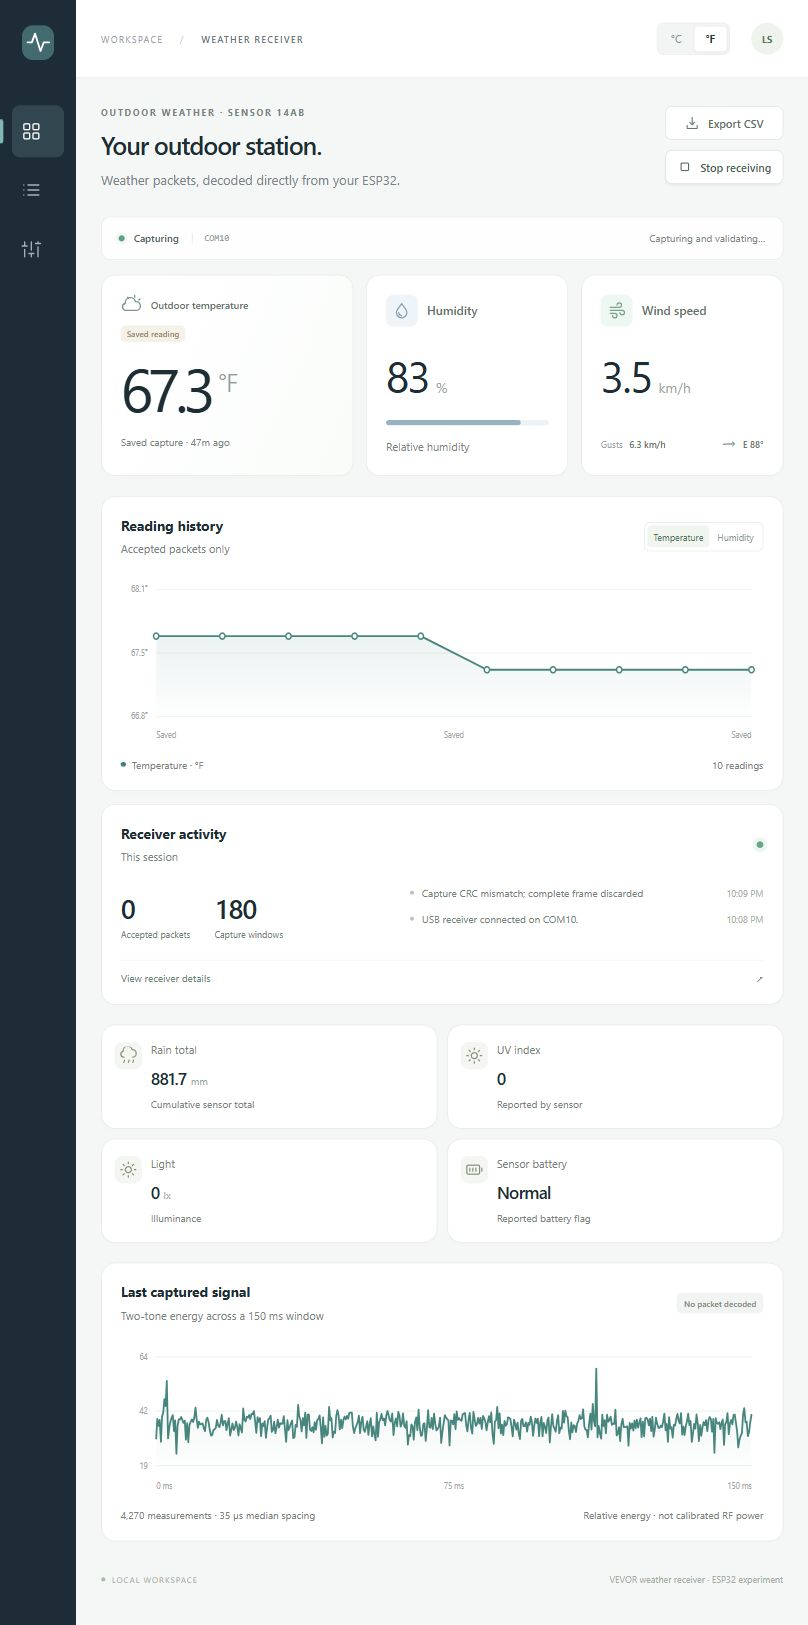
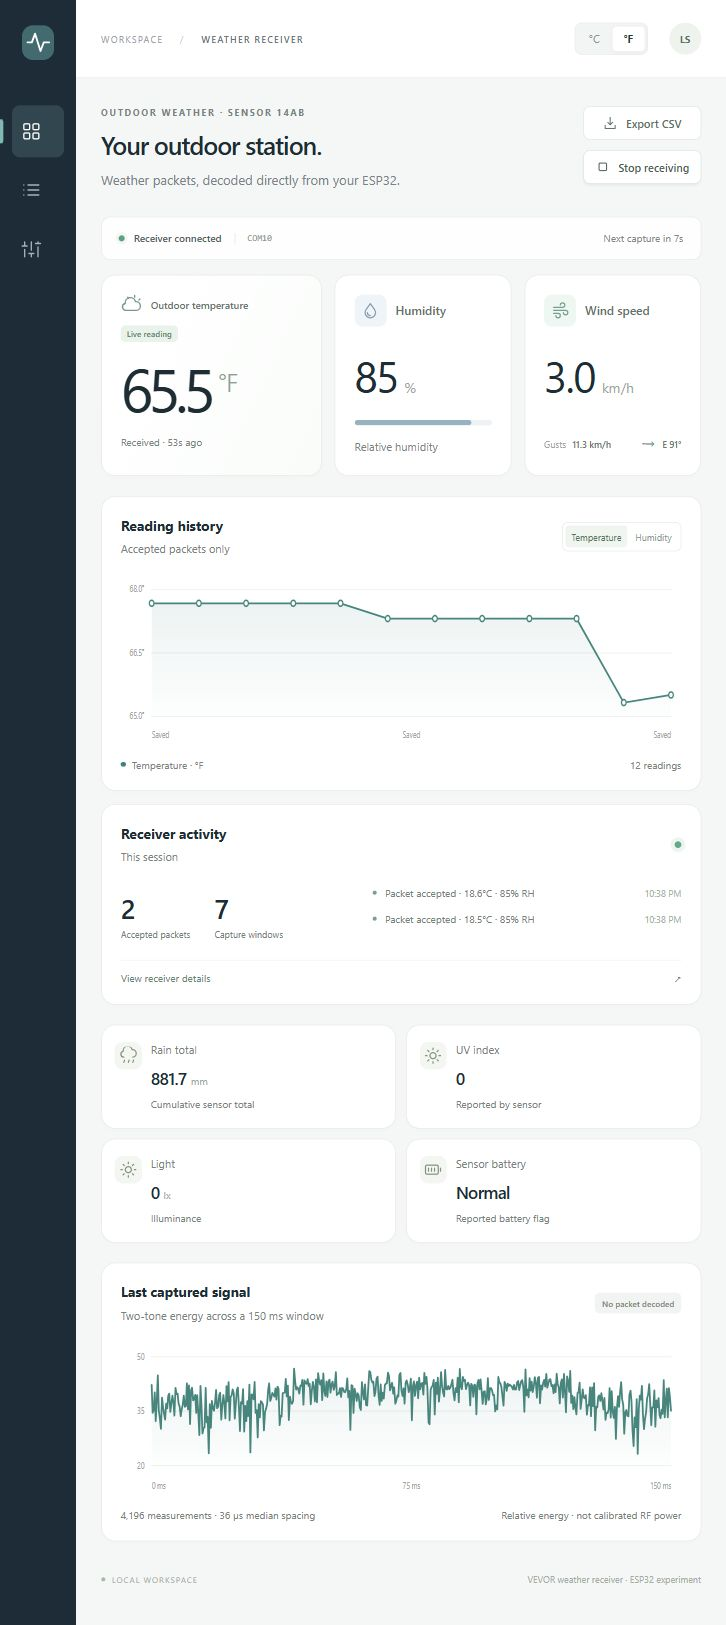
Improve burst clock recovery and preserve recent acquisition timing

diff --git a/host/esp32_harmonic_rx/vevor.py b/host/esp32_harmonic_rx/vevor.py
@@ -10,6 +10,55 @@ PATTERN = 2 * PREAMBLE.astype(float) - 1
 
 
 def decode_clocked(t, p0, p1):
+    """Recover the window clock, then refine it locally around detected syncs.
+
+    Each refinement uses one fixed 40 ms interval selected by the sync time,
+    before consulting payload checks. It never searches timing for a checksum.
+    """
+    result, ratio = _decode_window(t, p0, p1)
+    t, p0, p1 = (np.asarray(x, dtype=float) for x in (t, p0, p1))
+    accepted = list(result["valid_packets"])
+    refinements = []
+    for candidate in result.get("unvalidated_candidates", []):
+        sync = candidate["preamble_time_us"]
+        selected = (t >= sync - 16000) & (t <= sync + 24000)
+        if selected.sum() < 128:
+            continue
+        local, _ = _decode_window(t[selected], p0[selected], p1[selected])
+        coherence = local.get("clock_coherence", 0)
+        # Select timing by physical transition coherence, not packet validity.
+        if coherence < max(0.3, result.get("clock_coherence", 0)):
+            continue
+        refinements.append(
+            {
+                "sync_time_us": sync,
+                "clock_period_us": local["clock_period_us"],
+                "clock_coherence": coherence,
+            }
+        )
+        for packet in local["valid_packets"]:
+            if abs(packet["preamble_time_us"] - sync) > 500:
+                continue
+            if any(
+                p["payload_hex"] == packet["payload_hex"]
+                and abs(p["preamble_time_us"] - packet["preamble_time_us"]) < 500
+                for p in accepted
+            ):
+                continue
+            accepted.append(
+                dict(
+                    packet,
+                    clock_period_us=local["clock_period_us"],
+                    clock_coherence=coherence,
+                    clock_source="local",
+                )
+            )
+    result["valid_packets"] = accepted
+    result["clock_refinements"] = refinements
+    return result, ratio
+
+
+def _decode_window(t, p0, p1):
     t = np.asarray(t, dtype=float)
     p0 = np.asarray(p0, dtype=float)
     p1 = np.asarray(p1, dtype=float)

diff --git a/dashboard/app.py b/dashboard/app.py
@@ -85,6 +85,16 @@ class Receiver:
         }
         if seed:
             self._load_saved()
+        # Reuse a recently measured burst phase; stale timing falls back to scanning.
+        try:
+            timing = json.loads(
+                (self.data_dir / "burst-timing.json").read_text(encoding="utf-8")
+            )
+            age = time.time() - float(timing["burst_unix"])
+            if 0 <= age < 300 and timing.get("port") == serial_port:
+                self.anchor = time.perf_counter() - age
+        except (OSError, ValueError, TypeError, KeyError):
+            pass
 
     def _event(self, message, kind="info"):
         with self.lock:
@@ -220,7 +230,9 @@ class Receiver:
             fields.update(
                 source="live",
                 received_at=received_at,
-                clock_period_us=result.get("clock_period_us"),
+                clock_period_us=packet.get(
+                    "clock_period_us", result.get("clock_period_us")
+                ),
             )
             accepted.append(fields)
             with (self.data_dir / "readings.jsonl").open(
@@ -253,6 +265,14 @@ class Receiver:
                 capture["estimated_window_host_start"]
                 + sync[0]["preamble_time_us"] / 1e6
             )
+            timing = {
+                "port": self.state["config"]["port"],
+                "burst_unix": time.time() + self.anchor - time.perf_counter(),
+            }
+            timing_path = self.data_dir / "burst-timing.json"
+            pending = timing_path.with_suffix(".tmp")
+            pending.write_text(json.dumps(timing), encoding="utf-8")
+            pending.replace(timing_path)
         return bool(accepted), bool(sync)
 
     def _run(self):

diff --git a/dashboard/test_dashboard.py b/dashboard/test_dashboard.py
@@ -41,6 +41,21 @@ class DashboardTests(unittest.TestCase):
     def tearDown(self):
         self.temp.cleanup()
 
+    def test_recent_burst_timing_survives_restart_but_stale_timing_does_not(self):
+        receiver = Receiver(self.temp.name, seed=False, serial_port="TESTPORT")
+        receiver.process_capture(real_capture())
+        restarted = Receiver(self.temp.name, seed=False, serial_port="TESTPORT")
+        self.assertIsNotNone(restarted.anchor)
+        self.assertAlmostEqual(restarted.anchor, receiver.anchor, delta=0.05)
+        wrong_port = Receiver(self.temp.name, seed=False, serial_port="OTHERPORT")
+        self.assertIsNone(wrong_port.anchor)
+        path = Path(self.temp.name) / "burst-timing.json"
+        timing = json.loads(path.read_text())
+        timing["burst_unix"] = time.time() - 301
+        path.write_text(json.dumps(timing))
+        stale = Receiver(self.temp.name, seed=False, serial_port="TESTPORT")
+        self.assertIsNone(stale.anchor)
+
     def test_real_packet_is_saved_and_duplicates_are_suppressed(self):
         receiver = Receiver(self.temp.name, seed=False)
         accepted, synced = receiver.process_capture(real_capture())

diff --git a/host/tests/test_receiver.py b/host/tests/test_receiver.py
@@ -14,6 +14,25 @@ FIXTURES = Path(__file__).resolve().parents[2] / "tests" / "fixtures"
 
 
 class ReceiverTests(unittest.TestCase):
+    def test_local_clock_recovers_fresh_capture_without_bit_repair(self):
+        from esp32_harmonic_rx.vevor import _decode_window
+
+        with np.load(FIXTURES / "vevor-local-clock.npz", allow_pickle=False) as saved:
+            rows = saved["rows"]
+        args = (rows["us"], rows["p0"], rows["p1"])
+        before, _ = _decode_window(*args)
+        self.assertEqual(before["valid_packets"], [])
+        after, _ = decode_clocked(*args)
+        packet = after["valid_packets"][0]
+        self.assertEqual(packet["clock_source"], "local")
+        self.assertEqual(
+            packet["payload_hex"], "aa0014ab1402af5501080501600fc90101016a376b"
+        )
+        reading = parse_payload(packet["payload_hex"])
+        self.assertEqual(
+            (reading["temperature_C"], reading["humidity_percent"]), (18.7, 85)
+        )
+
     def test_recorded_weather_packet(self):
         with np.load(
             FIXTURES / "vevor-yt60234-packet.npz", allow_pickle=False

diff --git a/README.md b/README.md
@@ -45,6 +45,7 @@ This is one tested station/board combination. The EU868 MHz variant and other VE
 | Receiver profile | Requested 2744 MHz; tone offsets 808500 Hz and 1018000 Hz; gain index 65 |
 | Station ID in the recorded fixture | `14AB` |
 | Final faster-sampler prototype test | Four accepted weather payloads across five predicted bursts |
+| Fresh local-clock troubleshooting run | New validated packets received by the refactored library and dashboard; see validation record |
 | Between-burst controls | No accepted weather payloads |
 | Recovered fixture temperature | 19.8°C / 67.6°F |
 | Console comparison | User reported 67.8°F; the readings differ by 0.2°F |
@@ -52,7 +53,7 @@ This is one tested station/board combination. The EU868 MHz variant and other VE
 | Tested interpretation | Correctly structured weather payloads with checksum and counter checks |
 | Unverified | Absolute RF frequency, actual PLL lock, harmonic origin, direct 915 MHz reception, useful range |
 
-Later live prototype readings changed as new packets arrived. The packaged dashboard screenshot shows its source labels, including recorded readings loaded at startup. [The earlier live prototype screenshot](docs/images/dashboard-prototype-live.jpg) shows new packets arriving. These are real UI captures, not synthetic mockups. Wind, rain, UV, light, and battery fields are decoded but were not independently compared with the console.
+Later live prototype readings changed as new packets arrived. The current dashboard screenshot includes fresh readings received after the local-clock fix, alongside earlier saved history. [The earlier live prototype screenshot](docs/images/dashboard-prototype-live.jpg) shows new packets arriving. These are real UI captures, not synthetic mockups. Wind, rain, UV, light, and battery fields are decoded but were not independently compared with the console.
 
 The simple additive checksum can miss compensating bit errors. Stable IDs, repeated fields, console comparison, and negative controls provide additional evidence; they do not make reception error-free. Up to two errors are permitted in the 40-bit sync pattern. Payload bits are not repaired or guessed.
 
@@ -84,7 +85,7 @@ python -m venv .venv
 .\.venv\Scripts\python.exe dashboard/app.py --serial-port COM10
 ```
 
-Open **http://127.0.0.1:8765** and select **Start receiving**. Begin close to the outdoor sensor, as in the experiment. Initial acquisition can take several bursts. Keep any experimental GPIO transmitter unplugged while receiving weather data.
+Open **http://127.0.0.1:8765** and select **Start receiving**. Begin close to the outdoor sensor, as in the experiment. Initial acquisition can take several bursts. The dashboard retains measured burst timing for up to five minutes across restarts, then falls back to scanning. Keep any experimental GPIO transmitter unplugged while receiving weather data.
 
 The UI starts with recorded example readings labeled **Saved**. Newly received packets are labeled **Live**. The Start/Stop controls acquire and release the serial port. A complete USB frame with a bad CRC is discarded and reception continues; a short read or malformed protocol frame requires reconnecting.
 

diff --git a/docs/VALIDATION.md b/docs/VALIDATION.md
@@ -38,3 +38,11 @@ During packaging, the refactored library was flashed to the same board. A 10 ms 
 - Measurements have gaps. The sampler does not provide continuous I/Q or decoded audio.
 - Wind, rain, light, UV, and battery fields have not been independently checked against the console.
 - Wall-USB and shared-USB experiments do not fully eliminate all conducted or nonlinear coupling paths. A calibrated RF source/receiver and stronger electrical isolation would improve verification.
+
+## Local-clock regression fix
+
+A later troubleshooting run found brief spectral tone pairs at the original offsets, repeating about 20 seconds apart. Spectrum-assisted timing captured fresh VEVOR syncs, but whole-window timing still left payload bit errors. A fixed sync-centered local clock recovered the new `vevor-local-clock.npz` fixture: station `14AB`, 18.7°C, 85% RH, with header, checksum, and counter all valid. No payload bits were repaired. The software suite now includes this measured regression alongside the original packet and negative control.
+
+With the corrected decoder running in the live dashboard, two further fresh packets were accepted at 22:38:09 and 22:38:49 America/New_York: 18.5°C and 18.6°C, both 85% RH. These were newly captured measurements, not replayed fixtures. The troubleshooting run used spectrum-assisted burst timing to seed initial acquisition; it does not establish automatic cold-start acquisition reliability. Reception still misses bursts.
+
+A third live reading followed at 22:40:29 America/New_York: 18.5°C, 86% RH. The two earlier live captures also decode under whole-window timing when correctly aligned; therefore the live recovery reflects spectrum-assisted acquisition as well as the decoder improvement. The separate local-clock fixture specifically demonstrates the decoder fix. Fourteen host/dashboard tests pass, including measured regression and restart-timing expiry checks.

diff --git a/docs/HOW_IT_WORKS.md b/docs/HOW_IT_WORKS.md
@@ -27,6 +27,8 @@ Each observation integrates approximately 8 µs of nominal 16 MS/s data. Process
 
 Python estimates a quiet tone-power baseline, forms a log ratio between the tone energies, and identifies strong frequency transitions. It estimates symbol period and phase from those transitions **before consulting the payload checksum**. Observations are grouped into symbol cells.
 
+After detecting a sync, the decoder also estimates a local clock in one fixed 40 ms interval: 16 ms before the sync and 24 ms after it. The local timing is eligible only when transition coherence is at least 0.3 and improves on the whole-window estimate. This selection uses physical transitions, without consulting checksum results or modifying payload bits. It avoids letting noise and small timing drift across the full 150 ms window corrupt a short packet.
+
 The VEVOR decoder permits at most two errors in the 40-bit sync pattern. It then requires the exact `AA00` payload header, 21 payload bytes, a matching additive checksum over the first 19 bytes, and `payload[20] == (payload[18] + 1) mod 256`. At least 264 decoded bits must remain from the sync position. It performs no payload bit repair.
 
 Searching timing parameters until a checksum passes can produce misleading alternatives. An earlier exploratory decoder showed this problem, so the published decoder recovers timing independently. Even then, an additive checksum is weak: consistent sensor IDs, repeated fields, console comparison, and negative controls remain useful checks.

diff --git a/CHANGELOG.md b/CHANGELOG.md
@@ -1,5 +1,12 @@
 # Changelog
 
+## 0.1.1 — local clock recovery
+
+- Refine the symbol clock in a fixed interval around detected syncs, selecting by transition coherence without checksum-guided timing search.
+- Add a fresh measured capture that fails whole-window timing and passes local timing without bit repair.
+- Report the recovered packet’s local clock period in the dashboard.
+- Preserve measured burst timing for up to five minutes across dashboard restarts, with stale/wrong-port rejection.
+
 ## 0.1.0 — experimental
 
 - Original-ESP32 Arduino capture library with memory-layout and radio-ownership checks.
